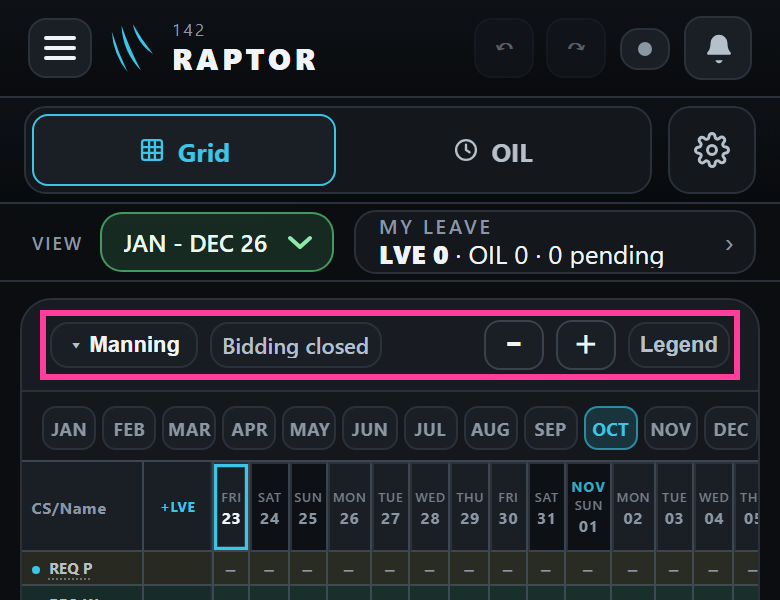
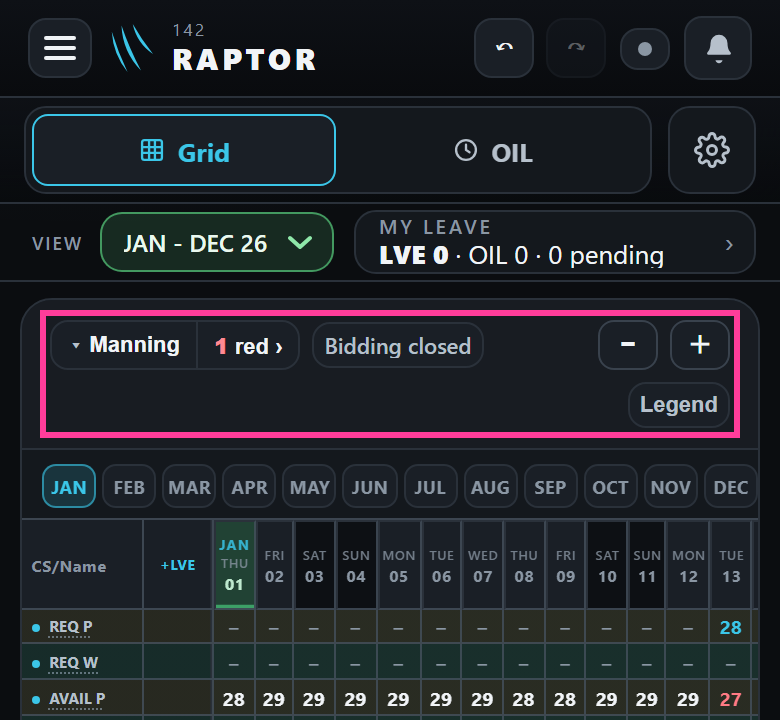
M2: the handoff block for the afternoon round; his iPhone picture behind D1278; the look page's marked question pictures; the observation log (680, and the heredoc trap met again under 601)

Changed region(s): [[0.0, 0.0, 1.0, 1.0], [0.8923, 0.03, 0.9538, 0.09], [0.7077, 0.06, 0.7692, 0.09]]

diff --git a/HANDOFF.md b/HANDOFF.md
@@ -21,26 +21,15 @@ the later merge keeps both (D78).
 
 ## Now
 <!-- now:claude/lw-m2-looks -->
-### THE NIGHT OF 23 Oct 26 — `claude/lw-m2-looks`, the Leave War overhaul's M2 (how it looks), his /overnight 12 — written 23 Oct 26 at the start, verify before use
-- **After a compaction:** re-read this block, the overnight guide (`.claude/skills/overnight/SKILL.md`) and the files of the step in hand before the next change; note the compaction here with its time.
-- **His selection ("Ok go", 23 Oct 26, about 00:20 his time):** (1) **M2 — how it looks** (the build plan `raptor-port/docs/superpowers/plans/2026-10-22-leave-war-overhaul-build-plan.md`, batches 2, 3, 4, with the approval note's answers D1242–D1259 that fall in M2); (2) **the owed rulings read** — one fresh reader of the short lines D1231–D1255 and D1264–D1269 against their full rows, and of design lessons 31–40 and the §8 line (D138, D941). Nothing else. No questions were open; none asked.
-- **Branch:** `claude/lw-m2-looks`, cut from `claude/lw-m1-open-dates` at its head `4a827bb11` (M1 unmerged when cut; its own chat merges it, pull request 566 — never touched from here). **Once M1 is on `main`:** merge `origin/main` into this branch before running its checks; only then open M2's pull request against `main` — never against M1's branch. If M1 is still unmerged at the morning report: no pull request; the morning report offers one.
-- **Check:** FULL (the plan §4 — the OIL award's half is saved data): rules sweep, a scenario designer other than the builder (a fresh Opus, D790), the roll-call, the door check, the walk sized by the walk ledger (wide: member and admin, phone and desktop) by Sonnet 5.5 walkers with pictures, break tests, the tests of what changed on his PC under the lock, one fresh, blind Opus read of the finished code (D903 — no Fable; D1260 was M1's alone and is spent), fixes, re-walk, evidence sheet `raptor-port/docs/handpass/2026-10-23-lw-m2-looks.md` with its `Walk:` line. The speed measured before and after (performance.md §E — the cell's memo and node band). Rough time: 8–10 hours.
-- **Job 2 — DONE (23 Oct 26, early):** one fresh, blind Opus reader of D1208–D1220, D1231–D1259, D1263–D1269 and lessons 31–40 with the §8 line: all 49 short lines agree with their full rows; two findings in the lessons (35/36 not tied, lesson 35 kept the struck "−" / "=" reading; lesson 32 carried an agent reading as his words) — both fixed in `raptor-port/docs/design-practices.md`; report `raptor-port/docs/superpowers/briefs/2026-10-23-rulings-read.md`. Its observations, for the morning: D1240's tail could name D1254 (or D1240 archive as spent).
-- **Build state (02:40 his time, commit c37e3e48f, pushed):** BUILT by the host — Ack gone (D1158; a stored 'acknowledged' reads pending), look F boxes (D1175, D1160, D1145, D1146, D1167: `engine/codes.ts kindOf/boxText`, `ui/MatrixRows.tsx` PersonMonth, `ui/matrix.css` the box block), the Legend redrawn as r7-07 (`ui/Chrome.tsx LegBox`), the navigation (D1254: `Topbar` — tabs Grid · OIL only, Approvals/Balances join with their pages in M4/M5; View; My leave `ui/myleave.ts`; ⚙; "+ New period" in the list D1244; no Viewing as D1173; `ui/lwnav.ts` carries the top row's asks to the grid), the grid's own bar on the card (`StageBar` with props: [Manning | n red] D1243, open chip, zoom kept until [LW-PHONE-PINCH-ZOOM], Legend; Rearrange moved into ⚙ with "Done" on the bar), the grid order dates → Manning → Events → people (D1256), the month band and Balances fold gone (D1257, D1245 — drawer code switched off, goes whole with M5), Manning folded on a phone remembered per person (D1258, localStorage `lw:manning:<viewer>`), D1227's bubble (`Matrix.tsx`, diff of verdicts across a bid window; Manning rows only so far). Look pictures `raptor-port/docs/img/handpass/2026-10-23-lw-m2-looks/look2/`, script `scripts/handpass/lw-m2-look.mjs <port> <tag>` (preview "raptor-walk", port 4173).
-- **Merged since (03:00):** helper (a) batch 3 — `availVerdict` / `availVerdictAt`, `manningRedDays` (the red count, used by `StageBar`), `lw.availrow` / `lw.reqname` writers, `ui/ReqNameForm.tsx`, tints — and helper (b) D1164 — the award's `half`, `creditHalf` (an app HO's half = where its work STARTED, the reading said to him), the +OIL "Half" row and the tracker's `HalfPick`; the host's `placeOf` draws an HO in its half and an FO whole; the bubble reads the Available rows too. Head `37f4e7894` + records. Helper (c) (tests after Ack and look F, tests only) still running in its worktree — merge it when it reports.
-- **Speed (M2's build, CPU 4×, 5 runs — `raptor-port/docs/img/handpass/2026-10-23-lw-m2-looks/perf-m2.txt`):** nodes desk admin 17306 (M1's sheet: 18292), phone admin 7918 (8441) — FEWER (the band row and the drawer gone); open and tap within M1's spread. M1's own re-run failed on its old layout (a click blocked by the top bar) — compare to M1's sheet §5.
-- **The scenario design is in** (`raptor-port/docs/superpowers/briefs/2026-10-23-lw-m2-scenarios.md`: 37 roll-call rows, 66 scenarios, 15 missing). **Fix BEFORE the walk:** (1) the thin dark outline on the moved edge and the clash corner (D1175's reading) — matrix.css; (2) the Legend: drop the "Half days" arrows group from `codes.ts CODE_GLOSSARY`, `kindOf` to strip the auto star (FO* reads grey today), HO drawn in a half, the figures section to say only the LVE column (the drawer is gone), the corner rows' swatches as `LegBox`; (3) the bubble only on a WORSENING (ok→amber/red, amber→red), never an improvement; (4) an HO's default half after a date change — `updateLedgerEntry` and the tracker's chip use the old date (helper b's code); (5) the Manning memory key read before the signed-in person is known — compute it when toggling and re-read when `viewer` changes; (6) the second box carries no Inputs-page / moved edge — add them; (7) Undo words for `lw.availrow` / `lw.reqname` in `undo/describe.ts`; (8) the day's list's old green/red edges → look F (small). Leave: an HO and a half-day leave on the same half shows one box and "+1" (rare; note it).
-- **Then:** a helper re-expresses the ~60 tests that rendered the grid alone and pressed ⚙ / Rearrange / OIL on its bar (now the top row — use `askLw` from `ui/lwnav.ts` or render Topbar beside Matrix), the drawer's tests (`figdrawer.test.tsx` — unreachable since D1245; skip with the ruling), chrome / phonehead (the top rows), the e2e specs (war-new is an option of the picker, settings-open in the top row, counts-toggle, undermanned as the Manning button's right half, figures-toggle and month-bracket gone); seed a demo case per new kind (an afternoon HO, a two-whole-day entry, an Available row at amber); the Leave War unit run under the lock; then the walk (Sonnet walkers, the scenarios' P1 first), one fresh blind Opus read, fixes, re-walk, the sheet `raptor-port/docs/handpass/2026-10-23-lw-m2-looks.md` (its frame is written).
-- **IN HAND (about 03:40 his time, head `51f6389be`, pushed):** THE WALK. The PC's check lock is HELD BY THIS CHAT ("M2 fanned-out walk") — release it (`node raptor-port/scripts/gatelock.mjs release`) once walkers 1 and 2 report. Walker 3 DONE (table `raptor-port/docs/handpass/parts/lw-m2-w3.md`: 3 FAILs — 36 a long period name, 38 tab arrows' focus, 60 the bubble from the keyboard — all FIXED in `51f6389be`, the source only: the served build at 4173 is still `fcddf90f4`, so do NOT rebuild until walkers 1 and 2 finish). Walker 1 (A, G, H — the box, Ack, Legend) and walker 2 (B, C — HO halves, Available/Required rows) still running: tables `docs/handpass/parts/lw-m2-w1.md`, `-w2.md`, pictures `w1/`, `w2/`. **Helper (d)** (worktree branch `worktree-agent-a9b283f4bbd2406ae`: the top-row tests re-expressed, figdrawer skipped by D1245, the HO default half after a date change fixed, demo cases seeded) is running and its build may be waiting on this chat's lock — merge it when it reports (expect a seed.test question). Helper (c) MERGED (tests after Ack/look F; 3099/3101 then, the 2 failing pins fixed since). **Notes from walker 3 for the sheet / his look, not faults:** a pending bid already counts as "next" in My leave; a Move raises no bubble (Q2); the bubble shows on a desktop too (Q1) and covers the month buttons while up; the red list prints "Available P 27" not "27 of 28" (Q4); on a phone with "11 red" the open chip is cut to "Bidding …"; the bid window still says How many / How much (D1212 is M3's, the plan's batch 5 — not M2). **After the walkers:** reproduce each FAIL on its picture; fix; rebuild; re-walk ONLY what the fixes touched by re-running the walkers' own scripts into new folders (`w<n>-r/`); the Leave War unit run under the lock (`node scripts/gatelock.mjs exec "..." -- npx vitest run --project leavewar`); one fresh blind Opus read of `git diff 4a827bb11..HEAD -- raptor-port/src` with the sheet in hand (D790, D903 — no Fable); fixes; fill the sheet `docs/handpass/2026-10-23-lw-m2-looks.md` (its frame is written) with the `Walk:` line; the walk-ledger row; push; if pull request 566 (M1) is merged, merge `origin/main` and open M2's pull request into main (then switch Auto-fix off and stop watching it); the morning report (the overnight guide's Part 3).
-- **04:15:** helper (d) MERGED (`88272b9cb`). Walker 2 DONE (`docs/handpass/parts/lw-m2-w2.md`: 3 FAILs — the Available row's point boxes full width, the red list without "of N", the phone chip cut — all FIXED in source after `88272b9cb`; its notes: the bid window and day list still print the half arrows "<LL" (the bid windows are M3), "entered" date shown in UTC — file it, the D1212 words are M3's). Q4 is SETTLED by the approved drawing r19c ("Available P 23 of 24") — built, not a question. Walker 1 still running (the box, Ack, Legend). Still owed on these fixes: the unit tests that deep-compare a red line (redcount, availpoints) may need `need`.
-- **05:20:** the Leave War unit suite green on the merged branch (3188 + the 7 re-expressed in `a7bb4968f`; 16 skipped — the drawer, D1245). Walker 1 still walking (121 pictures; the lock still held here). **The fresh blind Opus code read is RUNNING** — its report lands in `raptor-port/docs/superpowers/briefs/2026-10-23-lw-m2-code-read.md`; fix each finding red first, then rebuild and re-walk what the fixes touched (re-run the walkers' scripts into `w<n>-r/`).
-- **AFTER THE RESTART (he said "carry on"; 23 Oct 26 morning):** the app process restarted mid-night; walker 1 and the code read were resumed by message. **M1 is merged into main** (pull request 566); **`origin/main` merged into this branch** (`3bf3c7de1`, clean) and pushed; **M2's pull request is OPEN: https://github.com/seejiaokai/Raptor/pull/567** (into main; Auto-fix switched OFF again — D1090 — after the app switched it on). GitHub's full run on `3bf3c7de1` is going — **push nothing until no run of the branch's last pushed commit is queued or in progress (D151)**; this block's commit sits LOCAL until then. The PC's check lock is held by this chat for walker 1 ("M2 walk, walker 1 resumed") — release it when walker 1 reports. The preview "raptor-walk" serves the OLD build (fcddf90f4) for walker 1 — do not rebuild until it reports.
-- **The code read's report is IN:** `raptor-port/docs/superpowers/briefs/2026-10-23-lw-m2-code-read.md` — read it, fix each finding red first (a test that fails before the fix), batch the fixes with walker 1's; then rebuild, re-walk ONLY what the fixes touched (re-run the walkers' own scripts into `w<n>-r/` folders), push once GitHub's run is finished, read the new run's results (both runs) and fix any red; fill the evidence sheet `raptor-port/docs/handpass/2026-10-23-lw-m2-looks.md` (frame written: the roll-call from the scenario brief, the walk sizing — 3 Sonnet walkers on 66 scenarios, the speed figures, the gate counts, the read's findings and dispositions, the `Walk:` line); add the walk-ledger row; `[NO-ASTRA-LIST]` already carries M2; then the morning report (the overnight guide's Part 3 — preview link of pull request 567, pictures as one Artifact page, the parked questions Q1–Q3, `Rulings: none new this night`; the guard back on with `compact-ready.mjs --back`; one notification).
-- **HANDED OFF ~09:30 23 Oct 26 (this chat 86% full; head `a37480480`, pushed).** M2 is built; every fault found is fixed with a test; the whole Leave War unit project (3,200) and browser file are green ON HIS PC; the re-walk of every fixed case 21 / 21 PASS (`raptor-port/docs/handpass/parts/lw-m2-rewalk.md`); the evidence sheet `raptor-port/docs/handpass/2026-10-23-lw-m2-looks.md` is filled but for its `Walk:` line and the GitHub counts. **GitHub's run of `d0ff2c633` was RED on three Leave War browser tests only — all letter-width, Linux draws letters wider than his PC (and his iPhone's are wider too, so they are real):** (1) `e2e/leavewar.spec.ts` "on a tablet and a desktop the top of the Leave War is as it was…" — at 701 wide "my-leave" lies over "war-picker" by 30 px (`ui/chrome.css` `#page-leavewar .lw-view` / `.warpick` / `.myleave`: the picker does not shrink enough — make it give way, e.g. `.lw-view .warpick { overflow:hidden; white-space:nowrap; min-width:0 }` and check the picker's own element, then re-run at 701 with a wider font forced, as list A's "wide letters" test does); (2) "the counter controls sit on one row, in order…" (phone 390) — the grid's bar wraps to two lines on Linux; it may wrap by design since walker 2's fix ("never cut a chip"), so decide whether the test re-expresses to "in order, none cut" or the bar must hold one line at 390 (D1019 is about 431–700) — look at it with a wider font forced; (3) "no event widens its day…" (both) — an Event row's short form ("Off day", a long range closure) widens its day column by 1.1–1.5 px on Linux, the limit 0.75 — make the Event cell's text unable to widen the column (clip / max-width inside the cell), red first with a wider font forced. Reproduce here by forcing a wider font in the page (`page.addStyleTag({ content: '* { font-family: Verdana, sans-serif !important }' })` as list A's test does) — never by loosening a test. **His answers this morning, recorded:** D1270 (Settings never scrolls sideways — built), D1271 / D1273 (pictures: the host keeps every deciding look, saves tokens by cropping), D1272 (the bid bubble on a desktop too — built so), D1274 (a moved bid raises the bubble — NOT BUILT: `[LW-BUBBLE-MOVE]`, build it in M2 red first). **THE SCROLLED-DOWN NOTE ANSWERED: "Yes to the bid note as recommended" — D1277, to build: [LW-BUBBLE-OFFSCREEN] (with [LW-BUBBLE-MOVE]). Nothing is left waiting on him but his look.** **Q3 ANSWERED (09:40): "As recommended" — D1275, to build: [LW-REARRANGE-DONE-WORD]; and D1276 (narrowing D1228): the − / + go only once the pinch job proves the pinch works with the frozen date bar, else they stay. ** **Still with him (pictures sent, in `raptor-port/docs/img/handpass/2026-10-23-lw-m2-looks/questions/`):** Q3 — on a phone while rearranging, "⇅ Done" in words; with the word the bar wraps (Legend drops a line), so recommended: the word, and the − / + zoom pair steps aside while Rearrange is on (`q3c-done-zoom-aside.png`); and the scrolled-down note — recommended: when the Manning button is out of view the bubble sits at the foot of the screen with "Show ›" (`q1b-proposed-scrolled.png`). **Then:** push only when no run of the branch's last pushed commit is going (D151); GitHub green; the walk-ledger row; the sheet's `Walk:` line; his look — one page: the preview link (pull request 567's Vercel comment, check Ready), before / after pictures of his three reports, ask him to try the fling on his iPhone; "merge live" is his. The next job recommended after M2: `[LW-PHONE-PINCH-ZOOM]` (his pinch drift is filed there).
-- **Opening line for the next chat:** Switch this chat to the branch claude/lw-m2-looks: git fetch origin, git switch claude/lw-m2-looks, git pull --ff-only (if the switch is refused because another checkout holds the branch, release it there only if that checkout has no uncommitted changes and its HEAD equals origin/claude/lw-m2-looks: git -C <that folder> switch --detach). Then read HANDOFF.md, the claude/lw-m2-looks block under ## Now (its "HANDED OFF" line first), and carry on M2: the three Linux letter-width test failures, [LW-BUBBLE-MOVE] (D1274), his answers to Q3 and the scrolled-down note, then his look. Nothing merges without his "merge live".
-- **Questions waiting for him (parked, each with a recommendation — none blocks the build):** (Q1) D1227's bubble on a desktop too, where Manning opens by default — recommended yes, the same bubble; (Q2) a Move or a drag of a bid raises the bubble as a new bid does — recommended yes; (Q3) on a phone Rearrange's way out is the ⇅ icon alone ("Done" hidden by the phone's short words, D1019) — recommended show "Done" in words; (Q4 — settled by the approved drawing r19c; built.)
-- **GitHub was degraded on the night of 22–23 Oct 26:** a stalled run is not a fault of the code.
+### `claude/lw-m2-looks` — the Leave War overhaul's M2 (how it looks): built, checked, his morning answers built — awaiting GitHub's run on the head, his look and "merge live"; written 23 Oct 26 afternoon — verify before use
+- **Where it started:** the night's /overnight built and checked M2 (evidence sheet `raptor-port/docs/handpass/2026-10-23-lw-m2-looks.md` §1–§15). This chat (he away about six hours from 08:20): GitHub's three Linux letter-width failures, reproduced on his PC first with `LW_WIDE_LETTERS=1` (the Leave War browser tests in Verdana) and fixed; his correction D1278 (the phone's two top rows as low as the round-19 drawing — recorded, lesson 42); his answers D1274 (a moved bid raises the bubble), D1277 (the note at the screen's foot with "Show ›"), D1275 ("⇅ Done" in words on a phone, the − / + aside) — built red first; the Inputs calendar's "Every Thursday" browser test made date-proof (it failed on GitHub's run that crossed midnight UTC into Friday; a test fault). Sheet §16 carries the round, with the `Walk:` line.
+- **Checked:** WALK tier — the host's scripted walk `raptor-port/scripts/handpass/lw-m2-walk-4.mjs`, 15 checks PASS (pictures `docs/img/handpass/2026-10-23-lw-m2-looks/pm/`, `pm-r/`, marked `look-pm/`); one fresh blind Opus read: no fault in the round, one older fault in M2's bubble (a month drawn while a bid window is open) FIXED red first in `d36a7b09b`, the bubble re-walked 6 / 6, the fix's narrow read clean. Gates on his PC: the Leave War unit project 3,209 passed (40 skipped as before, D1245) + bidbubble's 3 new; the browser tests of what changed both ways. GitHub's full run of `e38d69276` GREEN; the head adds the read's fix and records — its run was started at the push that carries this block: read it before his look.
+- **Branch / pull request:** `claude/lw-m2-looks`, pull request 567 into main (Auto-fix off — D1090). Preview https://raptor-git-claude-lw-m2-looks-kai-e2f5.vercel.app (check the head's preview is Ready before he tests). His look page: https://claude.ai/artifact/92nxg66R9zDcQfFJefYzcZ (questions first, before / after pictures).
+- **Questions waiting for him (parked, none blocks):** QA — on a phone the grid's bar takes a second line with "Manning | 1 red ›" (and with his iPhone's wider letters when the dates are open): recommended leave it, the − / + going with the pinch job (D1276) frees the room; QB — Grid and OIL each half the tab row: recommended leave it, Approvals and Balances join in M4 / M5.
+- **Owed:** no ChatGPT reader (`[NO-ASTRA-LIST]` carries M2). Nothing else.
+- **Running when written:** this chat's preview "raptor-preview" on port 4180 (stop it by its port when done); port 4173 is still held by the night chat's "raptor-walk" preview — stop it by its port if nobody is using it. The PC's check lock is free.
+- **Pick up here:** read GitHub's run on the branch's head (both runs); red → fix it first. Green → his look on his iPhone (the look page) → his "merge live" (D1088: push the closing records, wait for that run, merge once green, confirm the live app). The next job recommended after M2: `[LW-PHONE-PINCH-ZOOM]` (his pinch drift is filed there; it also settles QA).
+- **Opening line for the next chat:** Switch this chat to the branch claude/lw-m2-looks: git fetch origin, git switch claude/lw-m2-looks, git pull --ff-only (if the switch is refused because another checkout holds the branch, release it there only if that checkout has no uncommitted changes and its HEAD equals origin/claude/lw-m2-looks: git -C <that folder> switch --detach). Then read HANDOFF.md, the claude/lw-m2-looks block under ## Now, and carry on from its "Pick up here": GitHub's run on the head, then his look and "merge live".
 <!-- /now -->
 <!-- now:claude/lw-m1-open-dates -->
 ### `claude/lw-m1-open-dates` — the Leave War overhaul's M1, open dates (D1250's plan, batch 1), with D1263 and his look's fixes built: awaiting his look and "merge live", written 23 Oct 26 — verify before use

diff --git a/.claude/skill-observations/log.md b/.claude/skill-observations/log.md
@@ -743,6 +743,8 @@ Met again 15 Oct 26 (`[LW-LANDING-LINE-FIGURES]`): a `python - <<'EOF'` edit scr
 
 **Met again 17 Oct 26 ([TRK-SCROLL-GLIDE], round 1):** a `cat >> file <<EOF` holding the question page (prose full of apostrophes) failed the same way; redone through the file tool. The guard stays unbuilt: an unconditional default (pages and scripts always go through the file tool) would have cost nothing here.
 
+Met again 23 Oct 26: the Leave War M2 afternoon round — a here-document writing the evidence sheet's new section (prose full of apostrophes) failed the same way; redone through the file tool. The guard proposed above (scripts always written to a file) still stands.
+
 ### Observation 602: A search for an old wording, cut to its first 40 lines, hid two tests that read it
 
 **Status:** OPEN
@@ -1883,3 +1885,18 @@ different feature that merely pass through it.
 **Suggested improvement:** In systematic-debugging's fix step (or the bug-check order's §5 "a fix is new code"), add one line: when a fix turns a refusal into a skip / block / permanent state, enumerate (a) every direction or twin path (undo AND redo, add AND remove), and (b) every step that can sit BEHIND the blocked one and still pick it — and write a test for each before calling the fix complete.
 
 **Principle:** A stuck-control fix is only complete when every path that can select the stuck item — both directions, and the items queued behind it — has been checked; fixing the one path the finding named leaves its mirror broken.
+
+### Observation 680: A geometry test that fails only on the CI's Linux machines is reproduced locally by forcing a wider font, not by reading the CI log
+
+**Status:** OPEN
+**Date:** 23 Oct 26
+**Session context:** The Leave War's M2 — three browser geometry tests red on GitHub's Linux run, green on the owner's Windows PC
+**Skill:** New skill candidate: none — the bug-check order (`raptor-port/docs/bug-check-order.md`) and `raptor-port/docs/gates-and-deploy.md` (the CI's traps)
+**Type:** open-source
+**Phase/Area:** reproducing a CI-only failure before fixing it
+
+**Issue:** Three layout tests passed locally and failed in CI by 1–47px. The app loads no font of its own, so each machine draws its system font — Linux's DejaVu Sans is much wider than Windows' Segoe UI (and the owner's iPhone sits between). An opt-in switch (`LW_WIDE_LETTERS=1`) that injects `font-family: Verdana, "DejaVu Sans"` into every page from the first paint (an init script, not a style tag added after load — the app measures some text as it loads) reproduced all three failures on the PC at once, plus a fourth the CI had not reached; every fix was then proved red-then-green both ways before pushing. A style tag added after load reproduced only one of them, and a script that loaded the page at the target width (instead of narrowing a wide window, as the test does) missed another.
+
+**Suggested improvement:** In gates-and-deploy's CI traps: "a geometry test red on Linux only — rerun it locally with wider letters forced from the first paint (the spec's LW_WIDE_LETTERS switch, or the same init script) before reading logs; reproduce the test's own order of resizes". In the bug-check order's walk section: layout fixes are walked once with wider letters too.
+
+**Principle:** When a failure depends on the environment, make the local environment adopt the failing property on demand (font, timezone, speed) and reproduce the exact sequence the test follows; a fix proven only against the environment that never failed is not proven.
